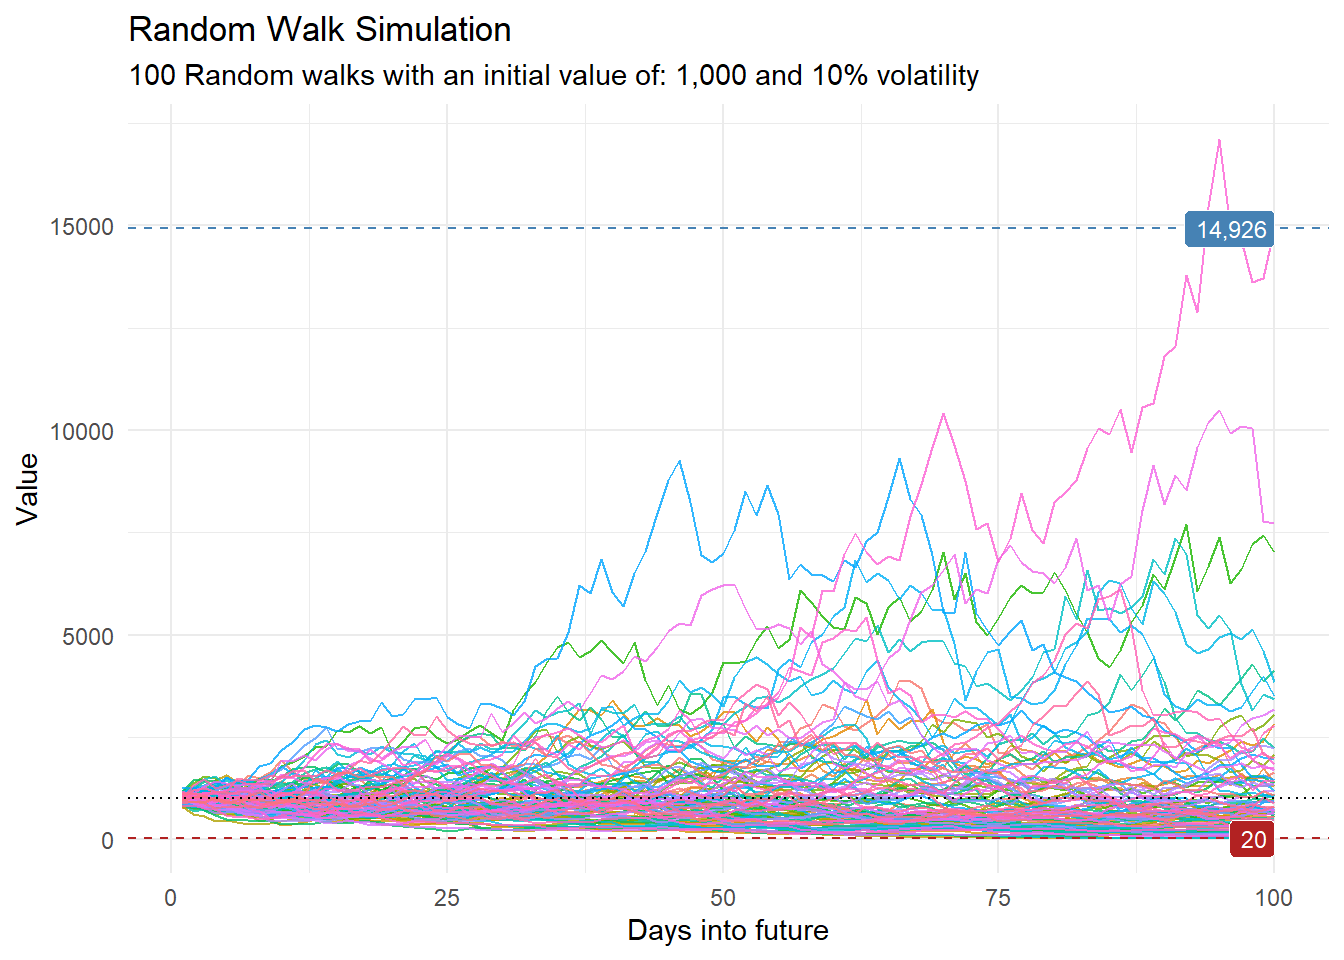
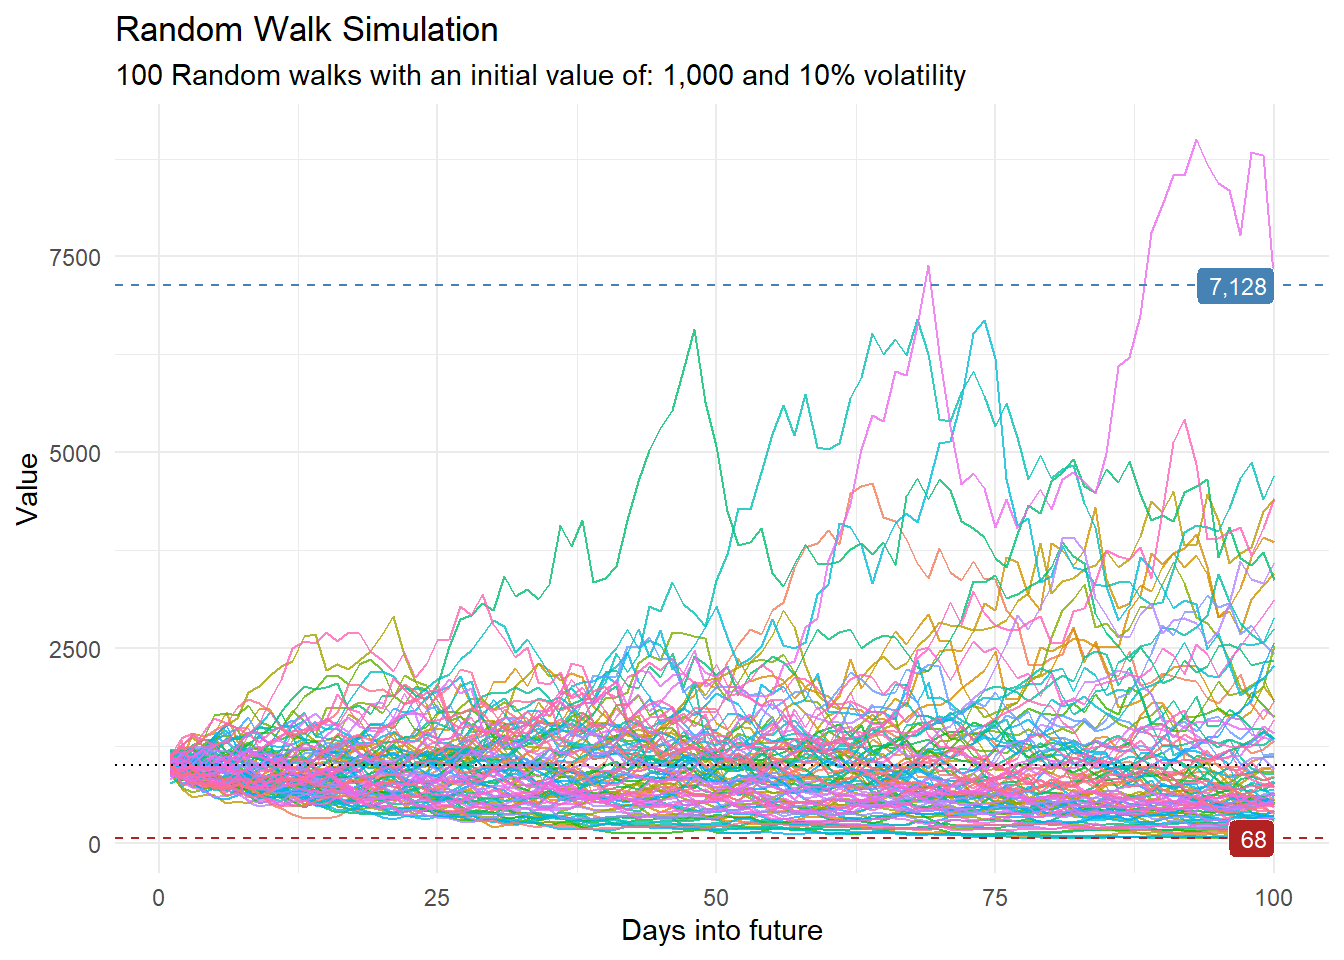
fix date

diff --git a/docs/index.html b/docs/index.html
@@ -204,55 +204,7 @@ gtag('config', 'G-JSJCM62KQJ', { 'anonymize_ip': true});
 
 <div class="quarto-listing quarto-listing-container-default" id="listing-listing">
 <div class="list quarto-listing-default">
-<div class="quarto-post image-right" data-index="0" data-categories="code,rtip,lists,lapply" data-listing-date-sort="1669698000000" data-listing-file-modified-sort="1669729830650" data-listing-reading-time-sort="0.795">
-<div class="thumbnail">
-<a href="./posts/rtip-2022-11-29/index.html">
-<div class="thumbnail-image">
-
-</div>
-</a><p><a href="./posts/rtip-2022-11-29/index.html"></a></p>
-</div>
-<div class="body">
-<a href="./posts/rtip-2022-11-29/index.html">
-<h3 class="no-anchor listing-title">
-Working with Lists
-</h3>
-<div class="listing-subtitle">
-
-</div>
-</a>
-<div class="listing-categories">
-<div class="listing-category" onclick="window.quartoListingCategory('code'); return false;">
-code
-</div>
-<div class="listing-category" onclick="window.quartoListingCategory('rtip'); return false;">
-rtip
-</div>
-<div class="listing-category" onclick="window.quartoListingCategory('lists'); return false;">
-lists
-</div>
-<div class="listing-category" onclick="window.quartoListingCategory('lapply'); return false;">
-lapply
-</div>
-</div>
-<a href="./posts/rtip-2022-11-29/index.html">
-<div class="listing-description">
-In <strong>R</strong> there are many times where we will work with <em>lists</em>. I won’t go into why lists are great or really the structure of a list but rather simply working with them.
-</div>
-</a>
-</div>
-<div class="metadata">
-<a href="./posts/rtip-2022-11-29/index.html">
-<div class="listing-date">
-Nov 29, 2022
-</div>
-<div class="listing-author">
-Steven P. Sanderson II, MPH
-</div>
-</a>
-</div>
-</div>
-<div class="quarto-post image-right" data-index="1" data-categories="code,rtip,timeseries,healthyrts" data-listing-date-sort="1669698000000" data-listing-file-modified-sort="1669814997775" data-listing-reading-time-sort="1.385">
+<div class="quarto-post image-right" data-index="0" data-categories="code,rtip,timeseries,healthyrts" data-listing-date-sort="1669784400000" data-listing-file-modified-sort="1669815439412" data-listing-reading-time-sort="1.385">
 <div class="thumbnail">
 <a href="./posts/rtip-2022-11-30/index.html">
 <div class="thumbnail-image">
@@ -291,6 +243,54 @@ Generating random walk data for timesieries analysis does not have to be difficu
 </div>
 <div class="metadata">
 <a href="./posts/rtip-2022-11-30/index.html">
+<div class="listing-date">
+Nov 30, 2022
+</div>
+<div class="listing-author">
+Steven P. Sanderson II, MPH
+</div>
+</a>
+</div>
+</div>
+<div class="quarto-post image-right" data-index="1" data-categories="code,rtip,lists,lapply" data-listing-date-sort="1669698000000" data-listing-file-modified-sort="1669729830650" data-listing-reading-time-sort="0.795">
+<div class="thumbnail">
+<a href="./posts/rtip-2022-11-29/index.html">
+<div class="thumbnail-image">
+
+</div>
+</a><p><a href="./posts/rtip-2022-11-29/index.html"></a></p>
+</div>
+<div class="body">
+<a href="./posts/rtip-2022-11-29/index.html">
+<h3 class="no-anchor listing-title">
+Working with Lists
+</h3>
+<div class="listing-subtitle">
+
+</div>
+</a>
+<div class="listing-categories">
+<div class="listing-category" onclick="window.quartoListingCategory('code'); return false;">
+code
+</div>
+<div class="listing-category" onclick="window.quartoListingCategory('rtip'); return false;">
+rtip
+</div>
+<div class="listing-category" onclick="window.quartoListingCategory('lists'); return false;">
+lists
+</div>
+<div class="listing-category" onclick="window.quartoListingCategory('lapply'); return false;">
+lapply
+</div>
+</div>
+<a href="./posts/rtip-2022-11-29/index.html">
+<div class="listing-description">
+In <strong>R</strong> there are many times where we will work with <em>lists</em>. I won’t go into why lists are great or really the structure of a list but rather simply working with them.
+</div>
+</a>
+</div>
+<div class="metadata">
+<a href="./posts/rtip-2022-11-29/index.html">
 <div class="listing-date">
 Nov 29, 2022
 </div>

diff --git a/docs/posts/rtip-2022-11-30/index.html b/docs/posts/rtip-2022-11-30/index.html
@@ -7,7 +7,7 @@
 <meta name="viewport" content="width=device-width, initial-scale=1.0, user-scalable=yes">
 
 <meta name="author" content="Steven P. Sanderson II, MPH">
-<meta name="dcterms.date" content="2022-11-29">
+<meta name="dcterms.date" content="2022-11-30">
 
 <title>Steve’s Data Tips and Tricks - Generate Random Walk Data with {healthyR.ts}</title>
 <style>
@@ -231,7 +231,7 @@ gtag('config', 'G-JSJCM62KQJ', { 'anonymize_ip': true});
       <div>
       <div class="quarto-title-meta-heading">Published</div>
       <div class="quarto-title-meta-contents">
-        <p class="date">November 29, 2022</p>
+        <p class="date">November 30, 2022</p>
       </div>
     </div>
       
@@ -286,18 +286,18 @@ gtag('config', 'G-JSJCM62KQJ', { 'anonymize_ip': true});
 <span id="cb2-6"><a href="#cb2-6" aria-hidden="true" tabindex="-1"></a>df</span></code><button title="Copy to Clipboard" class="code-copy-button"><i class="bi"></i></button></pre></div>
 <div class="cell-output cell-output-stdout">
 <pre><code># A tibble: 10,000 × 4
-     run     x       y cum_y
-   &lt;dbl&gt; &lt;dbl&gt;   &lt;dbl&gt; &lt;dbl&gt;
- 1     1     1 -0.128   872.
- 2     1     2  0.0231  892.
- 3     1     3  0.0803  964.
- 4     1     4 -0.162   808.
- 5     1     5  0.0580  855.
- 6     1     6 -0.109   762.
- 7     1     7  0.0617  809.
- 8     1     8  0.0988  888.
- 9     1     9  0.0917  970.
-10     1    10  0.127  1093.
+     run     x        y cum_y
+   &lt;dbl&gt; &lt;dbl&gt;    &lt;dbl&gt; &lt;dbl&gt;
+ 1     1     1 -0.144    856.
+ 2     1     2  0.00648  862.
+ 3     1     3  0.0726   924.
+ 4     1     4 -0.152    784.
+ 5     1     5  0.0228   802.
+ 6     1     6 -0.0455   765.
+ 7     1     7  0.0972   840.
+ 8     1     8 -0.234    643.
+ 9     1     9 -0.0501   611.
+10     1    10 -0.0358   589.
 # … with 9,990 more rows</code></pre>
 </div>
 </div>
